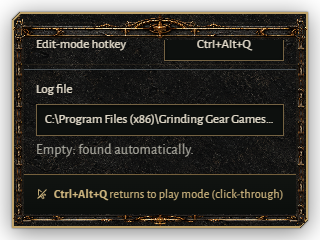
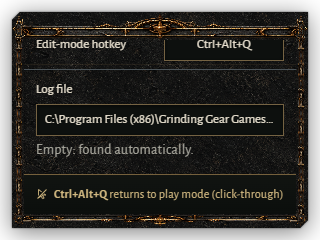
fix(quest-tracker): remove decorative header and duplicate frame

Changed region(s): [[0.0625, 0.0292, 0.9688, 0.9333], [0.0312, 0.0583, 0.9375, 0.9625]]

diff --git a/apps/quest-tracker/src/approved.css b/apps/quest-tracker/src/approved.css
@@ -2,35 +2,22 @@
 :root[data-theme='exile'] .panel-shadow[data-material='journal'] { --frame-inset: var(--material-journal-surround); }
 :root[data-theme='exile'] .panel-content { display: flex; flex: 1; flex-direction: column; min-width: 0; min-height: 0; overflow: hidden; }
 :root[data-theme='exile'] .frame-drag-region { position: absolute; z-index: 2; top: 9px; right: 34px; left: 34px; height: 20px; cursor: move; }
-:root[data-theme='exile'] .overlay[data-mode='edit'] .journal-plaque { cursor: move; }
+:root[data-theme='exile'] .panel.cut::after { display: none; }
 :root[data-theme='exile'] [data-theme='exile'] .panel[data-material='compact'] {
   --cut: var(--material-compact-chamfer);
   padding: var(--material-compact-trim);
-  box-shadow: inset 0 0 0 2px var(--color-material-stone), inset 0 0 0 3px var(--color-panel-border), inset 0 1px 0 #ffffff2e;
+  box-shadow: none;
 }
 :root[data-theme='exile'] [data-theme='exile'] .panel[data-material='journal'] {
   --cut: var(--material-journal-chamfer);
   padding: 34px 30px;
-  box-shadow: inset 0 0 0 2px #14120d, inset 0 0 0 28px #121416, inset 0 0 0 30px #615035;
+  box-shadow: none;
   isolation: isolate;
 }
 :root[data-theme='exile'] .panel[data-material='journal']::before,
 :root[data-theme='exile'] .window::before { content: ''; position: absolute; z-index: -1; inset: 0; background: linear-gradient(#080a0b70, #080a0b70), var(--well-image); background-size: auto, 360px 360px; pointer-events: none; }
 :root[data-theme='exile'] .panel[data-material='journal']::before { opacity: var(--panel-opacity, var(--opacity-default)); }
 :root[data-theme='exile'] .window { isolation: isolate; }
-:root[data-theme='exile'] [data-theme='exile'] .journal-plaque {
-  flex: none;
-  box-sizing: border-box;
-  min-height: 48px;
-  padding: 0 8px 8px;
-  color: var(--color-worth-gold);
-  font: 600 var(--size-display)/var(--line-display) var(--font-family-caps);
-  text-align: center;
-  letter-spacing: .04em;
-  overflow-wrap: anywhere;
-  background: linear-gradient(90deg, transparent, #41464a30, transparent);
-}
-:root[data-theme='exile'] .journal-crest { display: block; width: 100%; height: 96px; margin: 0 auto; object-fit: contain; object-position: center bottom; pointer-events: none; }
 :root[data-theme='exile'] [data-theme='exile'] .header {
   display: grid;
   grid-template-columns: 16px minmax(0, 1fr) auto;
@@ -122,19 +109,14 @@
 :root[data-theme='exile'] [data-theme='exile'] .slider::-webkit-slider-thumb { background: var(--color-worth-gold); }
 :root[data-theme='exile'] [data-theme='exile'] .step .tick { accent-color: var(--color-worth-gold); }
 :root[data-theme='exile'] [data-theme='exile'] .slider::-webkit-slider-runnable-track { background: linear-gradient(to right, var(--color-worth-gold) var(--fill), var(--color-panel-divider) var(--fill)); }
-:root[data-theme='exile'] .window[data-theme='exile'] { --frame-inset: 18px; position: relative; display: flex; flex-direction: column; box-sizing: border-box; height: 100vh; min-height: 0; padding: 20px 18px; border: 0; background: var(--color-panel-bg); box-shadow: inset 0 0 0 16px #121416, inset 0 0 0 18px #615035; overflow: hidden; overflow-wrap: anywhere; }
+:root[data-theme='exile'] .window[data-theme='exile'] { --frame-inset: 18px; position: relative; display: flex; flex-direction: column; box-sizing: border-box; height: 100vh; min-height: 0; padding: 20px 18px; border: 0; background: var(--color-panel-bg); box-shadow: none; overflow: hidden; overflow-wrap: anywhere; }
 :root[data-theme='exile'] .window-content { flex: 1; min-width: 0; min-height: 0; overflow: auto; scrollbar-width: thin; scrollbar-color: var(--color-panel-border) transparent; }
 :root[data-theme='exile'] .window[data-theme='exile'] .title { font-family: var(--font-family-caps); font-size: var(--size-window-title); font-weight: 600; line-height: 32px; color: var(--color-worth-gold); }
 :root[data-theme='exile'] .window[data-theme='exile'] .btn, :root[data-theme='exile'] .window[data-theme='exile'] .toggle { min-height: 40px; }
 :root[data-theme='exile'] .window[data-theme='exile'] .group-label { color: var(--color-worth-gold); }
 :root[data-theme='exile'] .window[data-theme='exile'] .check { padding: 12px; border: 1px solid var(--color-material-stone); box-shadow: inset 0 2px 8px #0006; }
-@media (max-height: 440px) {
-  :root[data-theme='exile'] [data-theme='exile'] .journal-plaque { font-size: 20px; line-height: 28px; }
-  :root[data-theme='exile'] .journal-crest { height: 48px; }
-}
 @media (max-height: 320px), (max-width: 300px) {
-  :root[data-theme='exile'] [data-theme='exile'] .journal-plaque { display: none; }
-  :root[data-theme='exile'] [data-theme='exile'] .panel[data-material='journal'] { padding: 28px 12px 14px; box-shadow: inset 0 0 0 10px #121416, inset 0 0 0 12px #615035; }
+  :root[data-theme='exile'] [data-theme='exile'] .panel[data-material='journal'] { padding: 28px 12px 14px; }
   :root[data-theme='exile'] .frame-drag-region { top: 5px; right: 20px; left: 20px; height: 18px; }
   :root[data-theme='exile'] .panel-shadow[data-material='journal'] { --frame-inset: 6px; }
 }

diff --git a/apps/quest-tracker/src/components/Panel.svelte b/apps/quest-tracker/src/components/Panel.svelte
@@ -1,10 +1,8 @@
 <script lang="ts">
   // The expanded panel: header, the status line, the body the view's frame
-  // names, and in edit mode the way back to play mode. Cut corners (6 px), the
-  // background at the opacity setting while text and icons stay opaque, a
-  // 1 px border that edit mode turns into the 2 px accent. At opacity 0 the
-  // background is gone and the border and accent still draw: they are the
-  // ring (`.cut::after`), which the setting does not touch.
+  // names, and in edit mode the way back to play mode. Claude keeps its
+  // cut-corner ring and edit accent; Exile uses only its custom art frame.
+  // Background opacity never fades text, icons or the visible frame.
   //
   // The panel fills the window inside its shadow margin, in both directions,
   // and its body scrolls: the player sizes the window, the scale only zooms
@@ -24,7 +22,6 @@
   import Header from './Header.svelte';
   import Icon from './Icon.svelte';
   import MaterialFrame from './MaterialFrame.svelte';
-  import crest from '../../theme/materials/raster/lantern-astrolabe-crest.png';
   import stone from '../../theme/materials/raster/charcoal-stone-well.png';
   import QuestDetail from './QuestDetail.svelte';
   import QuestRow from './QuestRow.svelte';
@@ -40,7 +37,6 @@
   const edit = $derived(view.mode === 'edit');
   // Modes change input and controls; only the saved theme chooses the material.
   const journal = $derived(view.settings.theme !== 'claude');
-  const plaque = $derived(view.frame === 'settings' ? 'Overlay settings' : view.frame === 'character-picker' ? 'Characters' : view.frame === 'quest-detail' ? 'Quest details' : 'Campaign journal');
   let panelElement = $state<HTMLDivElement>();
   let wholeScroll = $state(false);
 
@@ -103,14 +99,6 @@
 </script>
 
 {#snippet panelContents()}
-    {#if journal}
-      <!-- The native window gesture has no keyboard action; the controls remain buttons. -->
-      <!-- svelte-ignore a11y_no_static_element_interactions -->
-      <div class="journal-plaque" aria-hidden="true" onpointerdown={pressDragSurface}>
-        <img class="journal-crest" src={crest} alt="" draggable="false" />
-        <span>{plaque}</span>
-      </div>
-    {/if}
     <Header {view} {send} {drag} />
     {#if status}
       {@const icon = STATUS_ICON[status.kind]}

diff --git a/apps/quest-tracker/src/approved-ui.test.ts b/apps/quest-tracker/src/approved-ui.test.ts
@@ -20,6 +20,8 @@ describe('approved material adoption', () => {
           theme === 'exile' ? 'journal' : 'claude',
         );
         expect(Boolean(rendered.root.querySelector('.material-art'))).toBe(theme === 'exile');
+        expect(rendered.root.querySelector('.journal-plaque, .journal-crest')).toBeNull();
+        expect(rendered.root.querySelector('.header h1')).not.toBeNull();
       }
       expect(document.documentElement.dataset.theme).toBe(theme);
       expect(bridge.calls).toEqual([]);
@@ -94,7 +96,7 @@ describe('approved material adoption', () => {
     expect(grab.closest('.panel-content')).toBeNull();
     press(grab);
     expect(bridge.drags).toBe(1);
-    press(rendered.root.querySelector('.journal-plaque')!);
+    press(rendered.root.querySelector('.header')!);
     expect(bridge.drags).toBe(2);
     press(grab, 2);
     for (const control of rendered.root.querySelectorAll('button,input,select')) press(control);
@@ -135,7 +137,7 @@ describe('approved material adoption', () => {
     expect(rendered.root.querySelector('.material-art')).not.toBeNull();
   });
 
-  it('bundles original material art and the licensed display face locally', async () => {
+  it('keeps original material source art and the licensed display face locally', async () => {
     const art = import.meta.glob('../theme/materials/*.svg', { query: '?raw', import: 'default', eager: true }) as Record<string, string>;
     for (const svg of Object.values(art)) {
       expect(svg).toMatch(/^<svg/);

diff --git a/docs/ui-design-system.md b/docs/ui-design-system.md
@@ -42,17 +42,17 @@ The references' character comes from material depth, architectural framing, orig
 
 ## Design rationale
 
-Approved family: carved campaign folio. This is an original design family, not an approved product rename. Every expanded Exile panel uses weathered charcoal masonry, cool dull-steel hardware, worn muted-gold inlay, original gothic relief and a ceremonial Roman serif title plate over deeply recessed content. Play/edit changes input and controls only; Next up, All, detail, Settings and empty states retain the selected material and typography. Claude keeps the prior visual theme, and the collapsed badge keeps its small shape and selected palette.
+Approved family: carved campaign folio. This is an original design family, not an approved product rename. Every expanded Exile panel uses weathered charcoal masonry, cool dull-steel hardware, worn muted-gold inlay and original gothic frame relief around deeply recessed content. Its existing functional header remains compact; the additional Campaign journal/crest header is removed. Play/edit changes input and controls only; Next up, All, detail, Settings and empty states retain the selected material and typography. Claude keeps the prior visual theme, and the collapsed badge keeps its small shape and selected palette.
 
 Material relief, shaped geometry, typography and original art distinguish this from the rejected flat-card recolor. Highlights are narrow and restrained, without glossy bronze, broad specular rims or glowing every edge. Rich views can carry original crest/title hardware, arches, marginal engraving and illustration niches; text wells stay quiet. Task hierarchy remains title → next action → rationale/reward → metadata. No new lore/portrait mapping, health meter, map capability or automatic game action is introduced. All numerical values below are proposed production design metrics, chosen for the accepted direction; none are measured pixel values or sampled colors from AI artwork.
 
 ### Material and ornament system
 
-Quest Tracker chooses its expanded-panel material from the saved theme, independently of mode or view. Exile retains its sculpted stone/gold frame, lantern relief and quiet textured wells in play and edit. At short viewports, reduce the crown and padding before content using the same responsive rules in both modes. Ornament stays inside existing native bounds. The 0.9 backing follows the actual setting default; 0% remains supported by contract, without promising contrast against every game scene.
+Quest Tracker chooses its expanded-panel material from the saved theme, independently of mode or view. Exile retains its custom stone/gold art frame and quiet textured wells in play and edit. The custom art is its only outer border: the legacy CSS ring and synthetic inset frame shadows are disabled for Exile. There is no separate crown/title plaque above the functional header. Responsive frame padding follows the same rules in both modes and stays inside existing native bounds. The 0.9 backing follows the actual setting default; 0% remains supported by contract, without promising contrast against every game scene.
 
-Journal/detail/ordinary windows: 12px carved masonry surround, 3px steel inner rail, 1px muted-gold inlay and 16px reading-well inset. Short title plate 48px high; optional original relief cap up to 56px within the window bounds. Illustration niche 76×112px only at effective widths ≥480px and only where existing data fits; at narrower widths reduce to a 24px decorative seal or omit art. Recessed cards use 8px corners/4px bevel face, 16px padding, a 28px title rail and 1px etched dividers. Contact shadows remain local (0 2px 8px black at 40%); no sprawling glow. Rich art may never increase the native window beyond its current contract or obscure controls.
+The family proposal for larger journal/detail/ordinary surfaces uses a 12px carved masonry surround, 3px steel inner rail, 1px muted-gold inlay and 16px reading-well inset. Its optional short title plate/relief cap is not used by the current Quest Tracker overlay. Illustration niche 76×112px only at effective widths ≥480px and only where existing data fits; at narrower widths reduce to a 24px decorative seal or omit art. Recessed cards use 8px corners/4px bevel face, 16px padding, a 28px title rail and 1px etched dividers. Contact shadows remain local (0 2px 8px black at 40%); no sprawling glow. Rich art may never increase the native window beyond its current contract or obscure controls.
 
-Material states: hover lightens a control well by one palette step and steel edge; pressed deepens the well with a 1px inward shadow; selected adds a 2px muted-gold side marker plus words/shape; disabled flattens relief and retains legible labels; keyboard focus adds an independent 2px ring with 2px offset, warm gold (#BFA36B) in Exile and legacy cyan (#87C9D1) in Claude. Status illumination is a small mark, not a glowing whole card. Quest Tracker bundles three original production rasters for its frame, crest and stone wells; optional artwork and sibling adoption remain proposals.
+Material states: hover lightens a control well by one palette step and steel edge; pressed deepens the well with a 1px inward shadow; selected adds a 2px muted-gold side marker plus words/shape; disabled flattens relief and retains legible labels; keyboard focus adds an independent 2px ring with 2px offset, warm gold (#BFA36B) in Exile and legacy cyan (#87C9D1) in Claude. Status illumination is a small mark, not a glowing whole card. Quest Tracker uses original frame and stone-well rasters; the generated crest remains source provenance but is no longer imported or rendered. Optional artwork and sibling adoption remain proposals.
 
 ### Original art inventory
 
@@ -62,7 +62,8 @@ Material states: hover lightens a control well by one palette step and steel edg
 pixels or extracted assets; documentation art, **not a shipped runtime asset**.
 The rich material direction remains approved and is used by Exile in both play
 and edit. The earlier lean steel/masonry play substitution is historical; the
-selected theme keeps its rich frame and crest, with responsive ornament sizing.
+selected theme keeps its custom frame across modes. The later compact-header
+correction removes the separate Campaign journal/crest header and redundant CSS border.
 Its fictional **Track Quest** button is **not an existing command**.
 The image's Act I / Act II / Act III tabs are illustrative and do not authorize
 chapter navigation; retain the current act heading and existing act expand/collapse.
@@ -77,9 +78,9 @@ no copied game artwork. This is not a set of reusable sliced runtime assets.
 
 | Original asset | Purpose | Responsive / proposed variants | Provenance and status |
 |---|---|---|---|
-| Crest / relief cap | Family silhouette and ceremonial heading | Same rich frame/crown in play and edit; crown contracts at short viewports | Original generated raster crown bundled in Quest Tracker Exile; sibling adoption remains proposed |
+| Crest / relief cap | Family silhouette and ceremonial heading study | Removed from the Quest Tracker overlay to preserve quest space | Original generated raster/prompt retained as source provenance, not current runtime art; sibling adoption remains proposed |
 | Masonry / steel frame corners | Structural depth and wear | Same carved surround and inner rail in both modes; responsive padding | Original generated raster surround bundled in Quest Tracker Exile; sibling adoption remains proposed |
-| Engraved title plate | Display hierarchy | Shallow header / rich title plate | Quest Tracker Exile uses the bundled crown and CSS title plate; sibling adoption remains proposed |
+| Engraved title plate | Display hierarchy | Existing compact functional header in Quest Tracker | Extra Campaign journal title plate removed; sibling adoption remains proposed |
 | Three vignette / emblem studies | Optional chapter identity | Omitted in play, optional 24px narrow-journal seal / aqueduct, lantern-marsh and bell niches | Fictional original AI illustrations, not game/lore data; individual runtime artwork proposed, not produced |
 | Etched divider | Quiet grouping | 1px line / original marginal engraving | Quest Tracker Exile uses CSS dividers; additional illustrated motifs remain proposed |
 | Status shapes | Available/current/done/skipped/locked/unknown distinction | Simple shape plus words / embossed seal with same meaning | Original glyph production proposed, not produced; existing semantics authoritative |
@@ -124,8 +125,8 @@ Quest Tracker's Exile display face is locally bundled Cinzel600, a Roman serif f
 
 | Style | Size / line px | Weight / tracking | Use |
 |---|---|---|---|
-| Display plaque | 28 / 36 | Cinzel 600 / 0.04em | Rich journal title |
-| Window title | 24 / 32 | Cinzel 600 / 0.035em | Ordinary app title plate |
+| Display plaque | 28 / 36 | Cinzel 600 / 0.04em | Optional family proposal, not the current Quest Tracker overlay |
+| Window title | 24 / 32 | Cinzel 600 / 0.035em | Ordinary app functional title |
 | Section / act | 20 / 28 | Cinzel 600 / 0.03em | Rich act/detail strip |
 | Overlay header | 15 / 20 | Cinzel 600 / 0.06em | Short engraved small-cap header |
 | Compact proposal heading | 16 / 22 | Cinzel 600 / 0.015em | Optional compact composition; not selected by Quest Tracker mode |
@@ -152,7 +153,7 @@ All components inherit semantic tokens; the following is a design inventory, not
 
 | Component | Anatomy and variants | Behavior / limits |
 |---|---|---|
-| Panel / window shell | Carved frame, original crest/cap, metallic inner rail, recessed reading well, scroll body, optional inset footer | Compact and full-journal material variants; edit indication stays visible; no interactive play-mode chrome |
+| Panel / window shell | Custom art frame, compact functional header, recessed reading well, scroll body, optional inset footer | Exile art frame or Claude legacy shell follows selected theme; edit indication stays visible; no interactive play-mode chrome |
 | Section heading | Engraved serif title plate with original cornerwork; compact and full-width variants | Center short ceremonial labels where suitable; working prose remains left aligned; count secondary |
 | Button | Blackened-metal recess or worn-gold primary plate, shallow bevel, original corner caps; text tertiary/danger variants | Material hover/pressed/disabled/focus variants plus words; one primary task per region; loading retains width |
 | Icon button | Original 20px glyph in 32/40px target, accessible name | Tooltip on hover/focus in interactive windows; visible key controls cannot depend on tooltip |
@@ -208,8 +209,8 @@ All source paths abbreviated above are beneath apps/quest-tracker/; the guide is
 
 Sizes are content pixels at 1×, excluding native title bars. Plain schematic regions below specify composition, not pixel-perfect screenshot replicas.
 
-1. **Quest Tracker selected-theme overlay, play/edit, 340×360 painted default.** Existing resize controls the native window; saved placement wins. Plain schematic: carved title plate / character and view header / act or worth strip / recessed quest rows / edit-only footer. Exile keeps the same stone/gold frame, texture and typography in both modes; short viewports reduce ornament before text. Play remains click-through and control-free; every current action remains available through edit/detail/All/settings/tray. The 320×240 native minimum and ~48×48 collapsed badge remain. No automatic minimap placement or native-HUD suppression capability is introduced.
-2. **Quest Tracker campaign journal/detail, 480×720 study with 320px fallback.** This is an existing campaign/detail view in a resized overlay, not a new native window or new journal capability. The current act heading sits under an engraved title plaque; the existing Next up / All switch remains the only view selector. Stacked architectural quest cards have gilded title rails, recessed task/reward wells and original vignette niches. At 320px the niche becomes a small seal and rewards wrap below the prose, retaining material identity. Completed cards use cooled/desaturated relief plus explicit status and readable text. Selecting a quest in edit replaces the body with its existing reason, steps, reward/giver/zone, source and mark/skip/reset actions; an illustrated detail cap must not consume the action area. No fictional lore/portrait data is added.
+1. **Quest Tracker selected-theme overlay, play/edit, 340×360 painted default.** Existing resize controls the native window; saved placement wins. Plain schematic: existing character and view header / act or worth strip / recessed quest rows / edit-only footer. There is no added Campaign journal/crest header. Exile keeps the same custom art frame, texture and typography in both modes, without a duplicate CSS outer ring. Play remains click-through and control-free; every current action remains available through edit/detail/All/settings/tray. The 320×240 native minimum and ~48×48 collapsed badge remain. No automatic minimap placement or native-HUD suppression capability is introduced.
+2. **Quest Tracker campaign journal/detail, 480×720 study with 320px fallback.** This is an existing campaign/detail view in a resized overlay, not a new native window or new journal capability. The current act heading follows the existing functional header; the Next up / All switch remains the only view selector. Stacked quest cards have gilded title rails and recessed task/reward wells; optional illustration niches remain a proposal without an authoritative asset mapping. Rewards wrap below prose at narrow widths. Completed cards use cooled/desaturated relief plus explicit status and readable text. Selecting a quest in edit replaces the body with its existing reason, steps, reward/giver/zone, source and mark/skip/reset actions. No extra illustrated header consumes the action area, and no fictional lore/portrait data is added.
 3. **Quest Tracker ordinary Settings, approximately 420×328.** Native title bar; 16px padded Settings heading; Updates section with automatic check switch and privacy helper; status/install lines; progress; Check now and the app-owned install/cancel/retry action; version; divider and Created by ST4H footer. It remains the small ordinary window, not a merge with overlay settings. Overlay settings retain opacity/scale/filter/read-screen/hotkey/log controls from their current contract, arranged as stacked groups.
 4. **Waystone Roller, 800×860.** Header [title | Settings]; compact filter area with visible labels; middle modifier list with each row [modifier words | tier | Want / Ignore / Avoid]; bottom pinned output [full search string, count/250, over-limit breakdown when necessary | Copy]. Search remains local filtering; header/footer do not masquerade as separate card dashboards. At 560×480, filter controls wrap and segments sit beneath row text; ensure the pinned footer does not cover rows.
 5. **Crafting Helper planning, 960×680.** Header [title | existing trade / Craft of Exile / Settings actions]; body columns [Item, 240px] [Targets, flexible] [Route, at least 280px], separated by 16px gaps; footer is existing status line. Available inner width and minimum column widths determine when this becomes two columns and then a stack. Route is ordered steps with full action words and clear current state. Start crafting belongs to the route task region. Initial, refused and planning states use the same structural slots with explicit messages, preserving the last-good item where the app does.
@@ -241,7 +242,7 @@ Status always pairs color with words or a distinct shape. A completed row uses a
 
 ## Adoption boundaries
 
-Quest Tracker adopts the rich journal/settings and lean steel/masonry direction
+Quest Tracker adopts the custom-frame stone/masonry direction
 as **Exile**, its default theme. **Claude** in either Settings surface selects the
 original appearance. Rust saves the preference and sends it to both windows;
 all22 existing feature groups and native window contracts remain covered by the

diff --git a/docs/quest-tracker/design/review-approved-ui.md b/docs/quest-tracker/design/review-approved-ui.md
@@ -1,5 +1,33 @@
 # Approved UI adoption review
 
+## Compact functional header and art-only border — 2026-11-01
+
+The owner removed the added Campaign journal/crest header because it occupied quest space, and removed the extra CSS border because Exile already has a custom art frame. The attached compact tracker close-up guides this space-efficient layout. No reference image was copied into runtime artwork, no new art was generated, and the existing custom frame and stone texture remain unchanged. The crest source PNG/prompt remains historical provenance; the current panel does not import or render it.
+
+The functional character/view/settings/collapse Header and fixed edit-mode top-rail drag area remain. The extra plaque is absent in every expanded mode/frame. Exile disables only the outer panel's legacy `::after` ring and synthetic inset frame shadows; its custom art frame remains. Ordinary Exile Settings also removes its synthetic inset frame shadows. Button/control focus outlines, the clipped scroll well, resize edges and Claude's original ring/shadow remain intact.
+
+Playwright MCP measured the same browser fixture before and after at364×384:
+
+| Surface | Before | After |
+|---|---|---|
+| Exile campaign/edit | Decorative header84px; body starts y218; outer frame12,12,340,360 | No plaque/crest; body starts y134; same outer frame;84px header space reclaimed |
+| Exile play/edit outer CSS | `::after` displayed and three inset frame shadows | `::after` display none; box-shadow none; custom art present in both modes |
+| Claude play/edit | Original ring displayed and white5% inset highlight | Exact same ring/shadow; no Exile art |
+| Ordinary Exile Settings | Two inset frame shadows behind custom art | Box-shadow none; custom art retained |
+
+At320×240, Next up/Settings/detail kept frame12,12,296,216 and well24,40,272,174 fixed. Their scroll start/middle/end values were0/173/346,0/277/554 and0/276/551 respectively; every footer reached y174–214 inside the well at the end. At364×384, the frame stayed12,12,340,360 and well42,46,280,292; body scroll values were0/122/244,0/218/436 and0/205/409, with footer y298–338 visible throughout. All six cases had no horizontal page overflow, and the fixed drag grip remained hit-testable after scrolling. Updated journal/play/ordinary Settings/minimum scroll-end screenshots show the compact functional header and art-only outer border.
+
+Fresh headerless Settings checks used Playwright MCP at `/?frame=settings&mode=edit&theme=exile` with every HTML element's computed font size and numeric line height doubled from its unmodified value. Normal line heights remained proportional to the doubled font. The Theme label measured13/16px before and26/32px after; help text and the functional Header measured14/20px before and28/40px after. Browser scale, root CSS zoom and panel CSS zoom all stayed1. Measurements followed font loading and responsive layout settling; this is200% text, not page zoom.
+
+| Current headerless Settings at200% text | Scroll start / middle / end | Fixed frame and inset well (x,y,w,h) | Footer at scroll end | Overflow and fixed drag grip |
+|---|---|---|---|---|
+| Exile edit,320×240 | Whole well0 /576 /1151 | Frame12,12,296,216; well24,40,272,174 at all three positions |24,99,272,115; fully inside well and hit-testable | Page width320; well/body scroll width equals client width272; grip hit-testable at all three positions |
+| Exile edit,364×384 | Whole well0 /504 /1008 | Frame12,12,340,360; well42,46,280,292 at all three positions |42,223,280,115; fully inside well and hit-testable | Page width364; well/body scroll width equals client width280; grip hit-testable at all three positions |
+
+In both200% cases the footer scrolls with the whole well, becomes fully reachable at the end, and stays clipped while below the viewport at the start/middle. Both retained custom art, zero plaque/crest elements, `::after` display none and outer box-shadow none. These fresh browser checks leave the native app closed and do not touch its store.
+
+The new header-absence assertion failed before the change and passed afterward. All existing functional Header, mode/theme, passive-play and drag/control-exclusion assertions remain. Native app-webview endpoint9333 was unavailable and no tracker process was running; the application was left closed. These are browser observations, not a new native or in-game measurement. The earlier native/crest captures below describe the previous UI stages.
+
 ## Selected-theme mode consistency — 2026-11-01
 
 The selected theme now chooses the expanded-panel material independently of mode and frame. Exile retains its carved stone/gold frame, textured wells, ornament and serif quest titles in play/edit, Next up/All, Settings/detail/picker and empty states. Claude retains its original presentation. Mode changes interaction and controls only; returning to play still closes edit-only frames as before. Earlier compact-play captures and counts below are historical, not the current mode contract.
@@ -17,7 +45,7 @@ Actual Tauri app-webview MCP observed the following in the disposable test profi
 
 `window.outerWidth/outerHeight` stayed582×703 throughout; opacity0.9, scale1, disabled screen reading, hotkey and synthetic log path were unchanged. The app was restored to Exile edit/Settings after inspection. No live game or installed/user store was changed.
 
-Playwright fixture checks covered Next up and All at320×240 and364×384: the first quest title remained fully inside the well, there were no play controls and no horizontal overflow. At the default size, reducing the crown to48px at short viewports left the first Next up card fully visible (y224–336 inside the well y46–338). This responsive rule is identical in play and edit; it does not choose a different material. The minimum window retains its existing smaller ornament rules. The [current Exile play screenshot](frames/approved/exile-play.png) records the retained frame.
+Playwright fixture checks at that stage covered Next up and All at320×240 and364×384: the first quest title remained fully inside the well, there were no play controls and no horizontal overflow. Before the later header removal, reducing the crown to48px at short viewports left the first Next up card fully visible (y224–336 inside the well y46–338). Those crown measurements are historical; the crown is now removed uniformly across modes. The [current Exile play screenshot](frames/approved/exile-play.png) records the retained custom frame without the extra header.
 
 ## First-screen critique — 2026-10-31
 
@@ -33,7 +61,7 @@ The owner rejected the initial vector/gray-tile interpretation above as unlike t
 
 Reopened the original concept and compared the new representative journal beside it before expanding checks. The screen uses original generated black carved masonry/niche rails, worn warm-gold inlay, a dimensional amber lantern/astrolabe crown, subdued physical stone, rectangular recessed wells with double fine gold lines, cream Georgia title-case quest names and readable Sans prose. Header/act/control bands share dark recessed stone/blackened metal and selected warm-gold treatment; the old flat gray bands and rounded gray cards are gone. The illustrative act tabs, fictional Track button and quest art mapping remain absent. The later mode-consistency correction above retains these Exile materials in play as well.
 
-The generated frame uses nine-slicing with vertically rounded side segments, preserving sculpture proportions. The outer frame is fixed; a separately inset well clips its scrolling contents. The crown belongs to the title plate inside that well. A fixed top-rail drag region remains available after Settings scrolls down; the rich title plate also uses the existing drag bridge. Art takes no input; controls and all resize edges retain their actions. Exact provenance and hashes are in [harvest](harvest.md#original-production-material-assets).
+The generated frame uses nine-slicing with vertically rounded side segments, preserving sculpture proportions. The outer frame is fixed; a separately inset well clips its scrolling contents. At this stage the crown belonged to a title plate inside that well; that extra header is now removed. The fixed top-rail and functional Header retain the existing edit-mode drag bridge. Art takes no input; controls and all resize edges retain their actions. Exact provenance and hashes are in [harvest](harvest.md#original-production-material-assets).
 
 Current app-only screenshots: [rich journal](frames/approved/exile-journal.png), [Exile play](frames/approved/exile-play.png), [ordinary Settings](frames/approved/exile-settings.png), and [minimum overlay Settings scrolled to the end](frames/approved/exile-settings-scroll-end.png). Claude screenshots retain the unchanged baseline cascade. These are rendered live controls, not the concept PNG used as a runtime mockup.
 

diff --git a/docs/quest-tracker/design/component-spec.md b/docs/quest-tracker/design/component-spec.md
@@ -4,9 +4,9 @@
 
 **Exile is the default theme**; **Claude** preserves the original specifications below. Both overlay Settings and the ordinary Settings window offer Theme → Exile / Claude. The preference is saved by Rust, sent to both windows and applied without changing mode, open frame, progress, opacity, zoom or saved geometry.
 
-Exile uses locally bundled Cinzel for short engraved titles, system Georgia/serif for cream title-case quest names, Alegreya Sans prose, warm gold controls and original raster masonry/niche/lantern-astrolabe relief. Every expanded Exile frame retains the same physical carved surround, gold inlay and rectangular double-lined recessed wells in play and edit, including Next up and All. Mode changes controls/input, never the selected theme or its material. Header, act and selected controls use the same blackened-metal/warm-inlay material. Ordinary Settings uses smaller rails in the same theme family; the collapsed badge keeps its small shape and selected palette. Decorative art is hidden from assistive technology and takes no input. All controls/actions and 22 feature groups remain: [preservation map](approved-ui-preservation.md).
+Exile uses locally bundled Cinzel for short functional headings, system Georgia/serif for cream title-case quest names, Alegreya Sans prose, warm gold controls and original raster masonry/niche relief. Every expanded Exile frame retains the same custom art surround, gold inlay and rectangular double-lined recessed wells in play and edit, including Next up and All. Mode changes controls/input, never the selected theme or its material. The extra Campaign journal/crest header is removed. Header, act and selected controls use the same blackened-metal/warm-inlay material. Ordinary Settings uses smaller rails in the same theme family; the collapsed badge keeps its small shape and selected palette. Decorative art is hidden from assistive technology and takes no input. All controls/actions and 22 feature groups remain: [preservation map](approved-ui-preservation.md).
 
-The Exile outer frame stays fixed. Its content scrolls in a separately inset, clipped well; the crown scrolls with its title plate rather than floating above content. A fixed noninteractive top-rail grab area and the rich title plate use the existing header-drag bridge in edit mode. The rail remains reachable after scrolling Settings to the end. Buttons, selects, fields, right clicks and passive play start no drag; all eight resize edges remain separate. Claude retains its original header gesture and cascade.
+The Exile custom art frame stays fixed and is the only outer border: the legacy CSS ring and synthetic inset frame shadows are disabled. Its content scrolls in a separately inset, clipped well. The existing functional header and a fixed noninteractive top-rail grab area use the existing header-drag bridge in edit mode. The rail remains reachable after scrolling Settings to the end. Buttons, selects, fields, right clicks and passive play start no drag; all eight resize edges remain separate. Control focus outlines and Claude's original border/header gesture remain unchanged.
 
 Exile wraps titles/steps/tips and permits vertical scrolling. At extreme effective heights the whole content well scrolls, including title controls/footer, within the fixed outer frame. Rich ornament contracts before content at narrow/short sizes. Native default364×384 includes the existing12px margin around340×360 paint; saved sizes win, minimum320×240 remains. Theme selection never changes native bounds. [Rendered review](review-approved-ui.md) records evidence and limits. This UI adoption introduces no new game behavior.
 

diff --git a/docs/quest-tracker/README.md b/docs/quest-tracker/README.md
@@ -26,7 +26,7 @@ What it is:
 
 - **Two visual themes, the same tracker.** Exile is the default: carved
   stone/gold surfaces throughout play, edit, Next up, All and Settings,
-  original raster stone/gold relief, Cinzel plaques, cream serif quest names
+  original raster stone/gold relief, compact Cinzel headings, cream serif quest names
   and warm gold controls. Select
   **Claude** to restore the previous visual theme. Use *Theme* in overlay
   Settings (edit mode), or *Appearance → Theme* in the tray's ordinary Settings
@@ -35,9 +35,10 @@ What it is:
   changes interaction and controls, never the selected theme or its material. See the
   [22-feature preservation map](design/approved-ui-preservation.md) and
   [rendered review](design/review-approved-ui.md). In edit/settings mode, drag
-  the header or rich title plate to move it; a fixed top-rail grab area stays
+  the functional header to move it; a fixed top-rail grab area stays
   available while the inset Settings content scrolls. Controls and resize edges
-  keep their own actions.
+  keep their own actions. Exile has no separate Campaign journal artwork/header;
+  its custom art frame is the only outer border, without the legacy CSS ring.
 
 - **One window, `Quest Tracker.exe`.** The build's name since 0.2.0; a
   release download is `quest-tracker.exe`, the same program. A Tauri app:
@@ -2165,8 +2166,11 @@ scoped to the root's received theme, and `src/approved.css` for its material,
 type, layout and control states. Original component/shared CSS stays intact for
 Claude. `theme.ts` switches derived shadows too. Cinzel and original raster material
 provenance are in [harvest](design/harvest.md); the concept PNG is never runtime
-art. The fixed material frame and inset content well scroll independently, so
-lower rails do not float over text or controls. New stores start at364×384 native pixels before existing first-start zoom
+art. The fixed material frame surrounds a separately scrolling inset content well,
+so lower rails do not float over text or controls. Exile removes the decorative
+Campaign journal/crest header and synthetic outer CSS ring/inset shadows; the
+functional header and fixed edit-mode drag rail remain. The custom art frame is
+the only outer border. New stores start at364×384 native pixels before existing first-start zoom
 (340×360 paint plus12px transparent margin each side). Saved bounds and the
 320×240 minimum are preserved; selecting a theme never resizes the window.
 
@@ -2651,6 +2655,8 @@ Revisit this feature when:
 
 ### Unreleased
 
+- Removed Exile's oversized Campaign journal/crest header and duplicate outer
+  CSS border. The custom art frame, functional controls and edit drag rail remain.
 - Default Exile UI: consistent carved stone/gold across play and edit surfaces,
   original decorative relief, local Cinzel titles and palette-matched controls.
 - Switching play/edit or opening Settings keeps the selected Exile/Claude

diff --git a/docs/quest-tracker/design/harvest.md b/docs/quest-tracker/design/harvest.md
@@ -18,7 +18,7 @@ Generated 2026-10-31 UTC with the built-in image-generation tool from this proje
[2 lines of base64/hex data omitted]
 
-Frame and crest have genuine alpha spanning 0–255; frame center is fully transparent. The frame uses nine-slice 208/190/208/190 with 34px/30px rails, horizontal stretch and vertical rounding, preserving niche proportions. Short windows reduce the overlay rails to 28px top, 12px sides and 14px bottom; ordinary Settings retains 20px/18px rails. Content scrolls in a separately inset well; rail art never paints over it. The crest scrolls with its title plate. Stone is subdued by a dark CSS layer; tile seamlessness was requested, not mathematically established. All artwork is decorative, unfocusable and takes no pointer input.
+Frame and crest have genuine alpha spanning 0–255; frame center is fully transparent. The frame uses nine-slice 208/190/208/190 with 34px/30px rails, horizontal stretch and vertical rounding, preserving niche proportions. Short windows reduce the overlay rails to 28px top, 12px sides and 14px bottom; ordinary Settings retains 20px/18px rails. Content scrolls in a separately inset well; rail art never paints over it. The owner removed the separate Campaign journal/crest header on 2026-11-01. Its crest PNG and exact prompt remain here as source provenance, but the current overlay does not import or render it. The frame and stone texture remain runtime art; no replacement art was generated. Stone is subdued by a dark CSS layer; tile seamlessness was requested, not mathematically established. All artwork is decorative, unfocusable and takes no pointer input.
 
 Exact generation prompts:
 

diff --git a/docs/quest-tracker/design/approved-ui-preservation.md b/docs/quest-tracker/design/approved-ui-preservation.md
@@ -6,7 +6,7 @@ The order matches the 22 existing feature groups in [the design system](../../ui
 |---|---|---|---|
 | 1 | Passive play / interactive edit; close edit frames on return | Existing shell modes and shared App/Panel behavior; selected material remains unchanged across modes | app.test.ts; finish-frames.test.ts; approved-ui.test.ts; Rust shell |
 | 2 | Global shortcut and binding/refusal states | Existing Settings hotkey and edit footer | live2.test.ts; Rust shell |
-| 3 | Header drag, eight resize directions, saved bounds, independent zoom | Existing bridge/native geometry; new-store364×384, minimum320×240 | resize.test.ts; Rust shell saved-size/theme tests |
+| 3 | Header drag, eight resize directions, saved bounds, independent zoom | Functional header and fixed top rail retain existing drag bridge after decorative-header removal; native geometry unchanged; new-store364×384, minimum320×240 | approved-ui.test.ts drag/control exclusions; resize.test.ts; Rust shell saved-size/theme tests |
 | 4 | Collapse/expand, count, warning and change badge | Existing Collapsed with selected theme tokens | app.test.ts; live2.test.ts; row-change.test.ts |
 | 5 | Next up / All, worth grouping, act disclosures | Existing Header, Panel and ActSection commands | app.test.ts; finish-header.test.ts; finish-rows.test.ts |
 | 6 | Statuses, worth, rewards, step/tip, manual/inferred marks | Same QuestRow data; Exile wrapping and original Claude layout | finish-rows.test.ts; live3.test.ts; inferred.test.ts |

diff --git a/docs/quest-tracker/ui-design-brief.md b/docs/quest-tracker/ui-design-brief.md
@@ -18,6 +18,10 @@ The selected theme alone chooses expanded-panel materials and typography:
 Exile keeps the same carved stone/gold frame in play, edit, Next up, All and
 Settings. Modes change controls/input only; they do not substitute a compact
 theme. The collapsed badge retains its small shape and selected palette.
+The expanded overlay uses its existing functional header only: no separate
+Campaign journal label or crest consumes quest space. Exile's custom art frame
+is its only outer border; the legacy CSS ring and synthetic inset frame shadows
+are disabled for Exile, while control focus outlines and Claude remain intact.
 
 Both settings views receive Rust's saved `theme` (`exile` or `claude`) and send
 the existing `update_settings` command. Missing/invalid stored values default to
